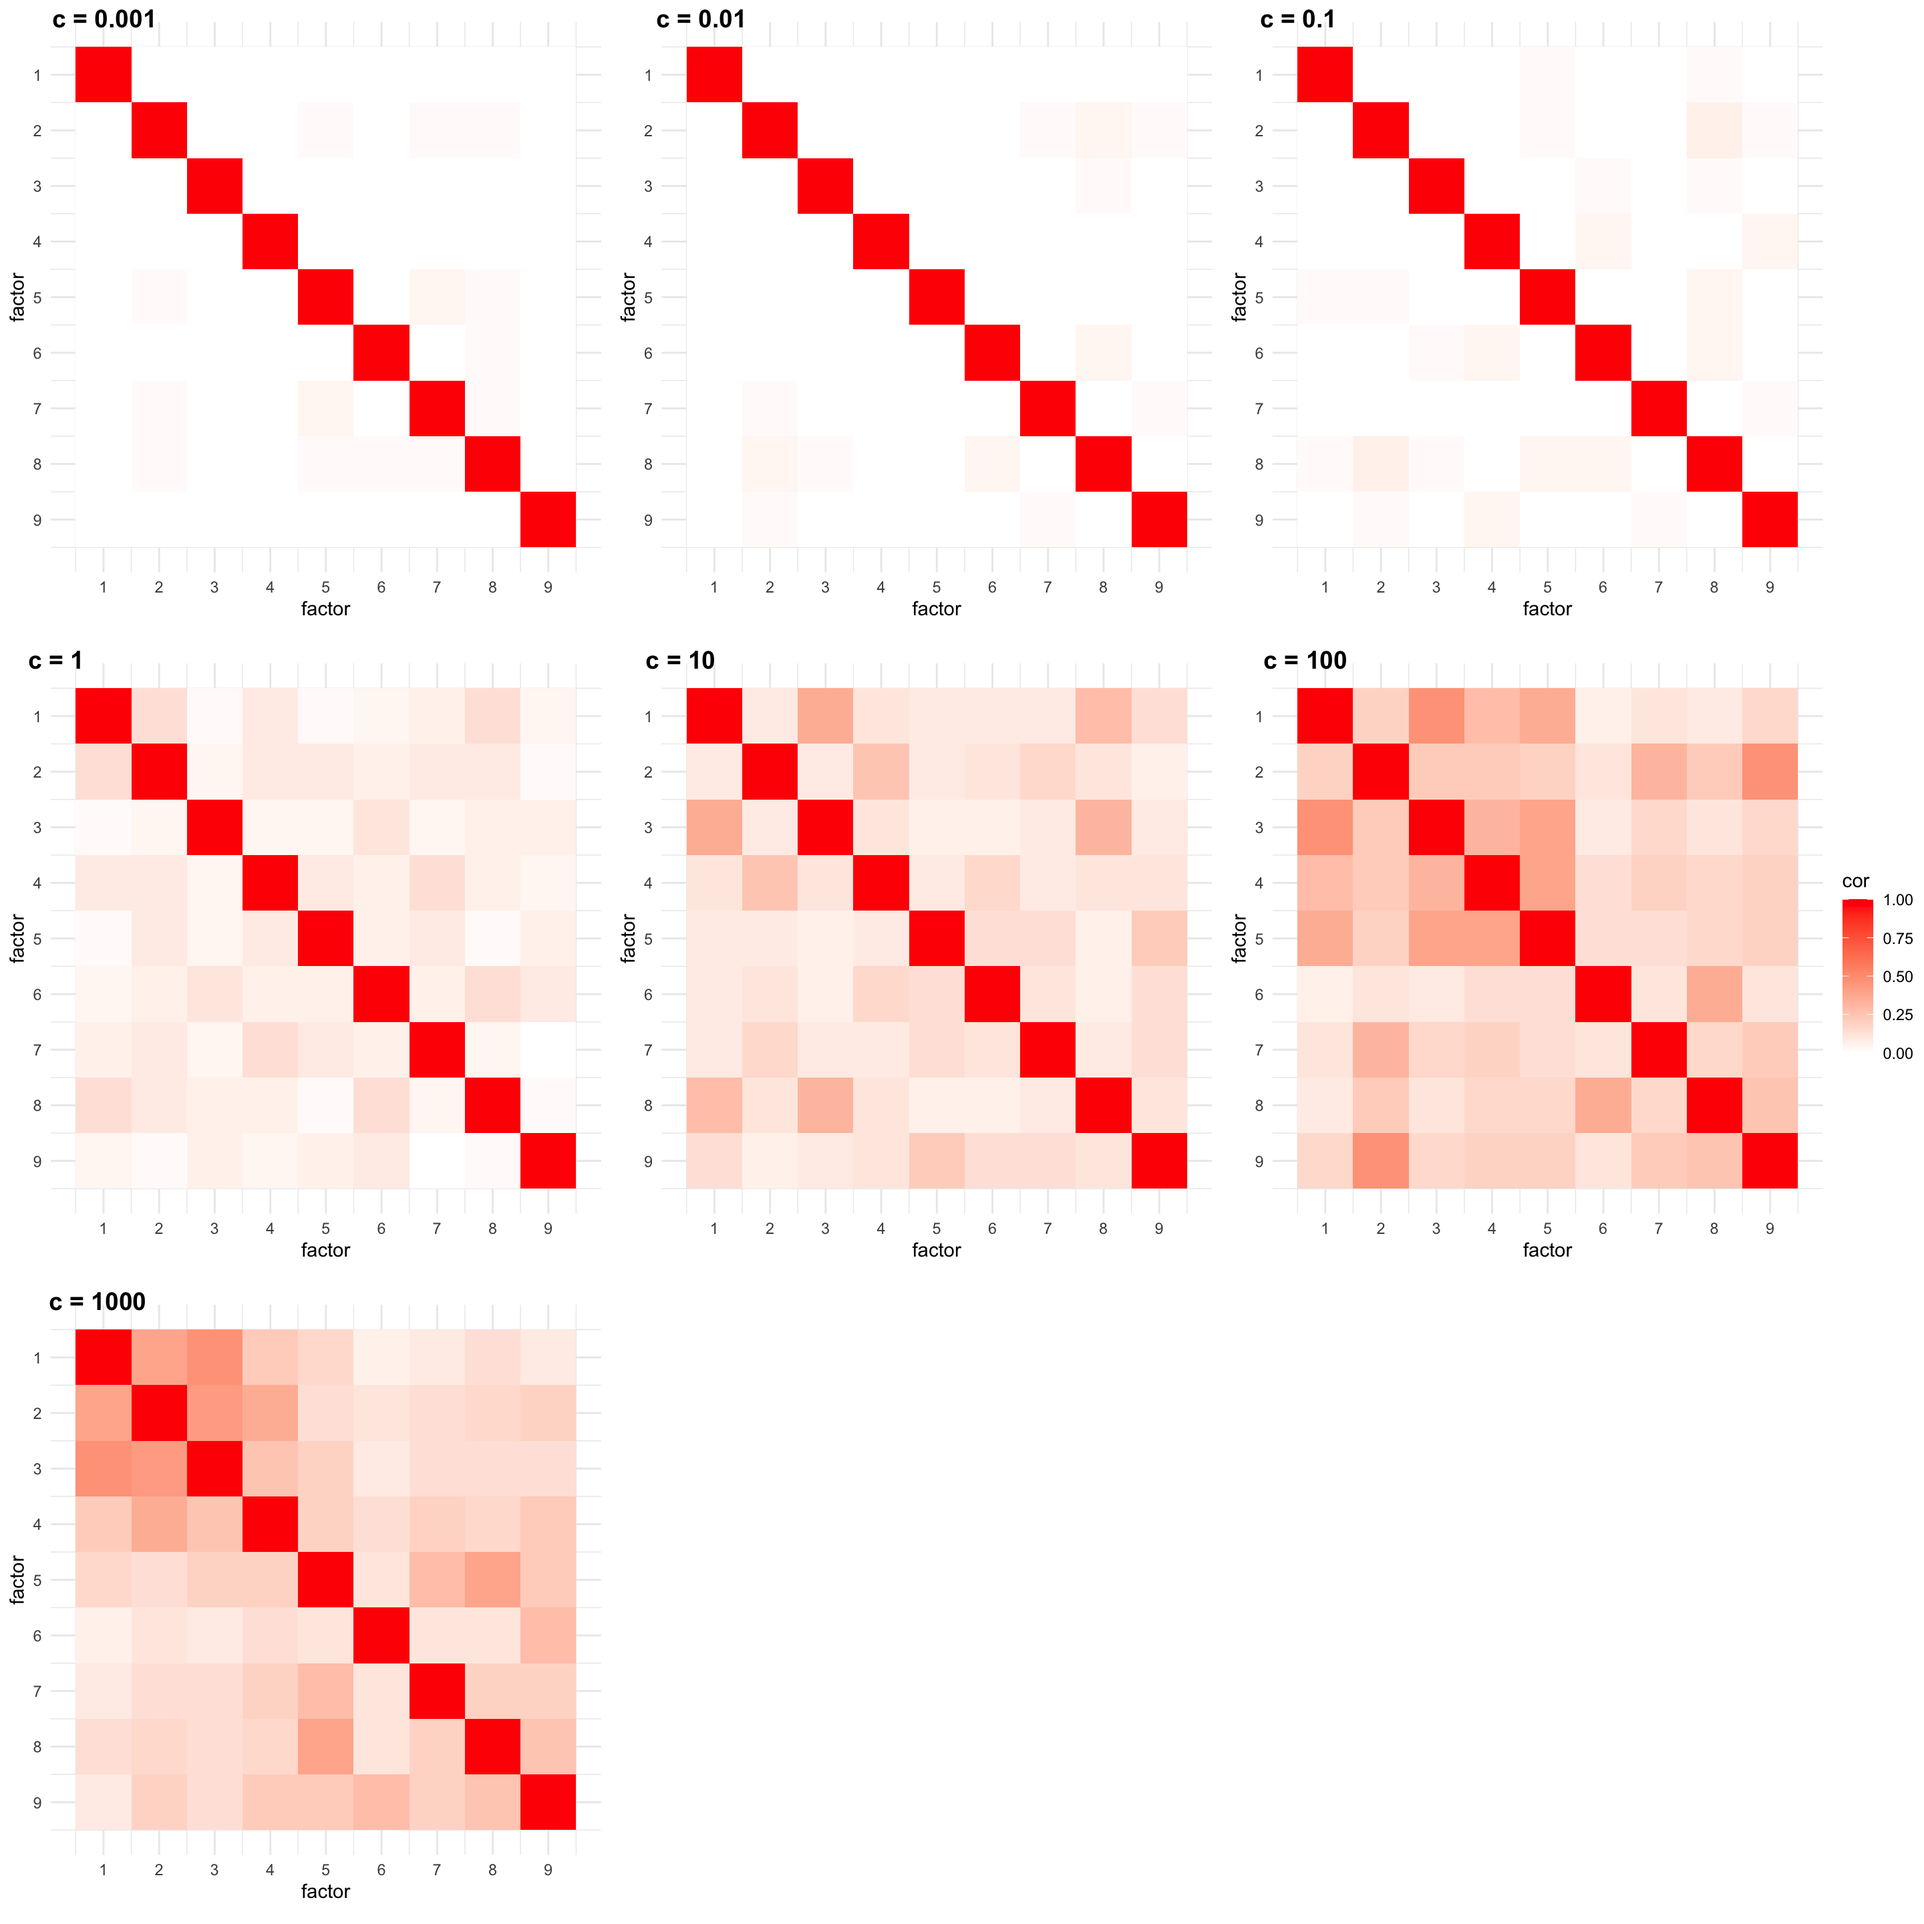
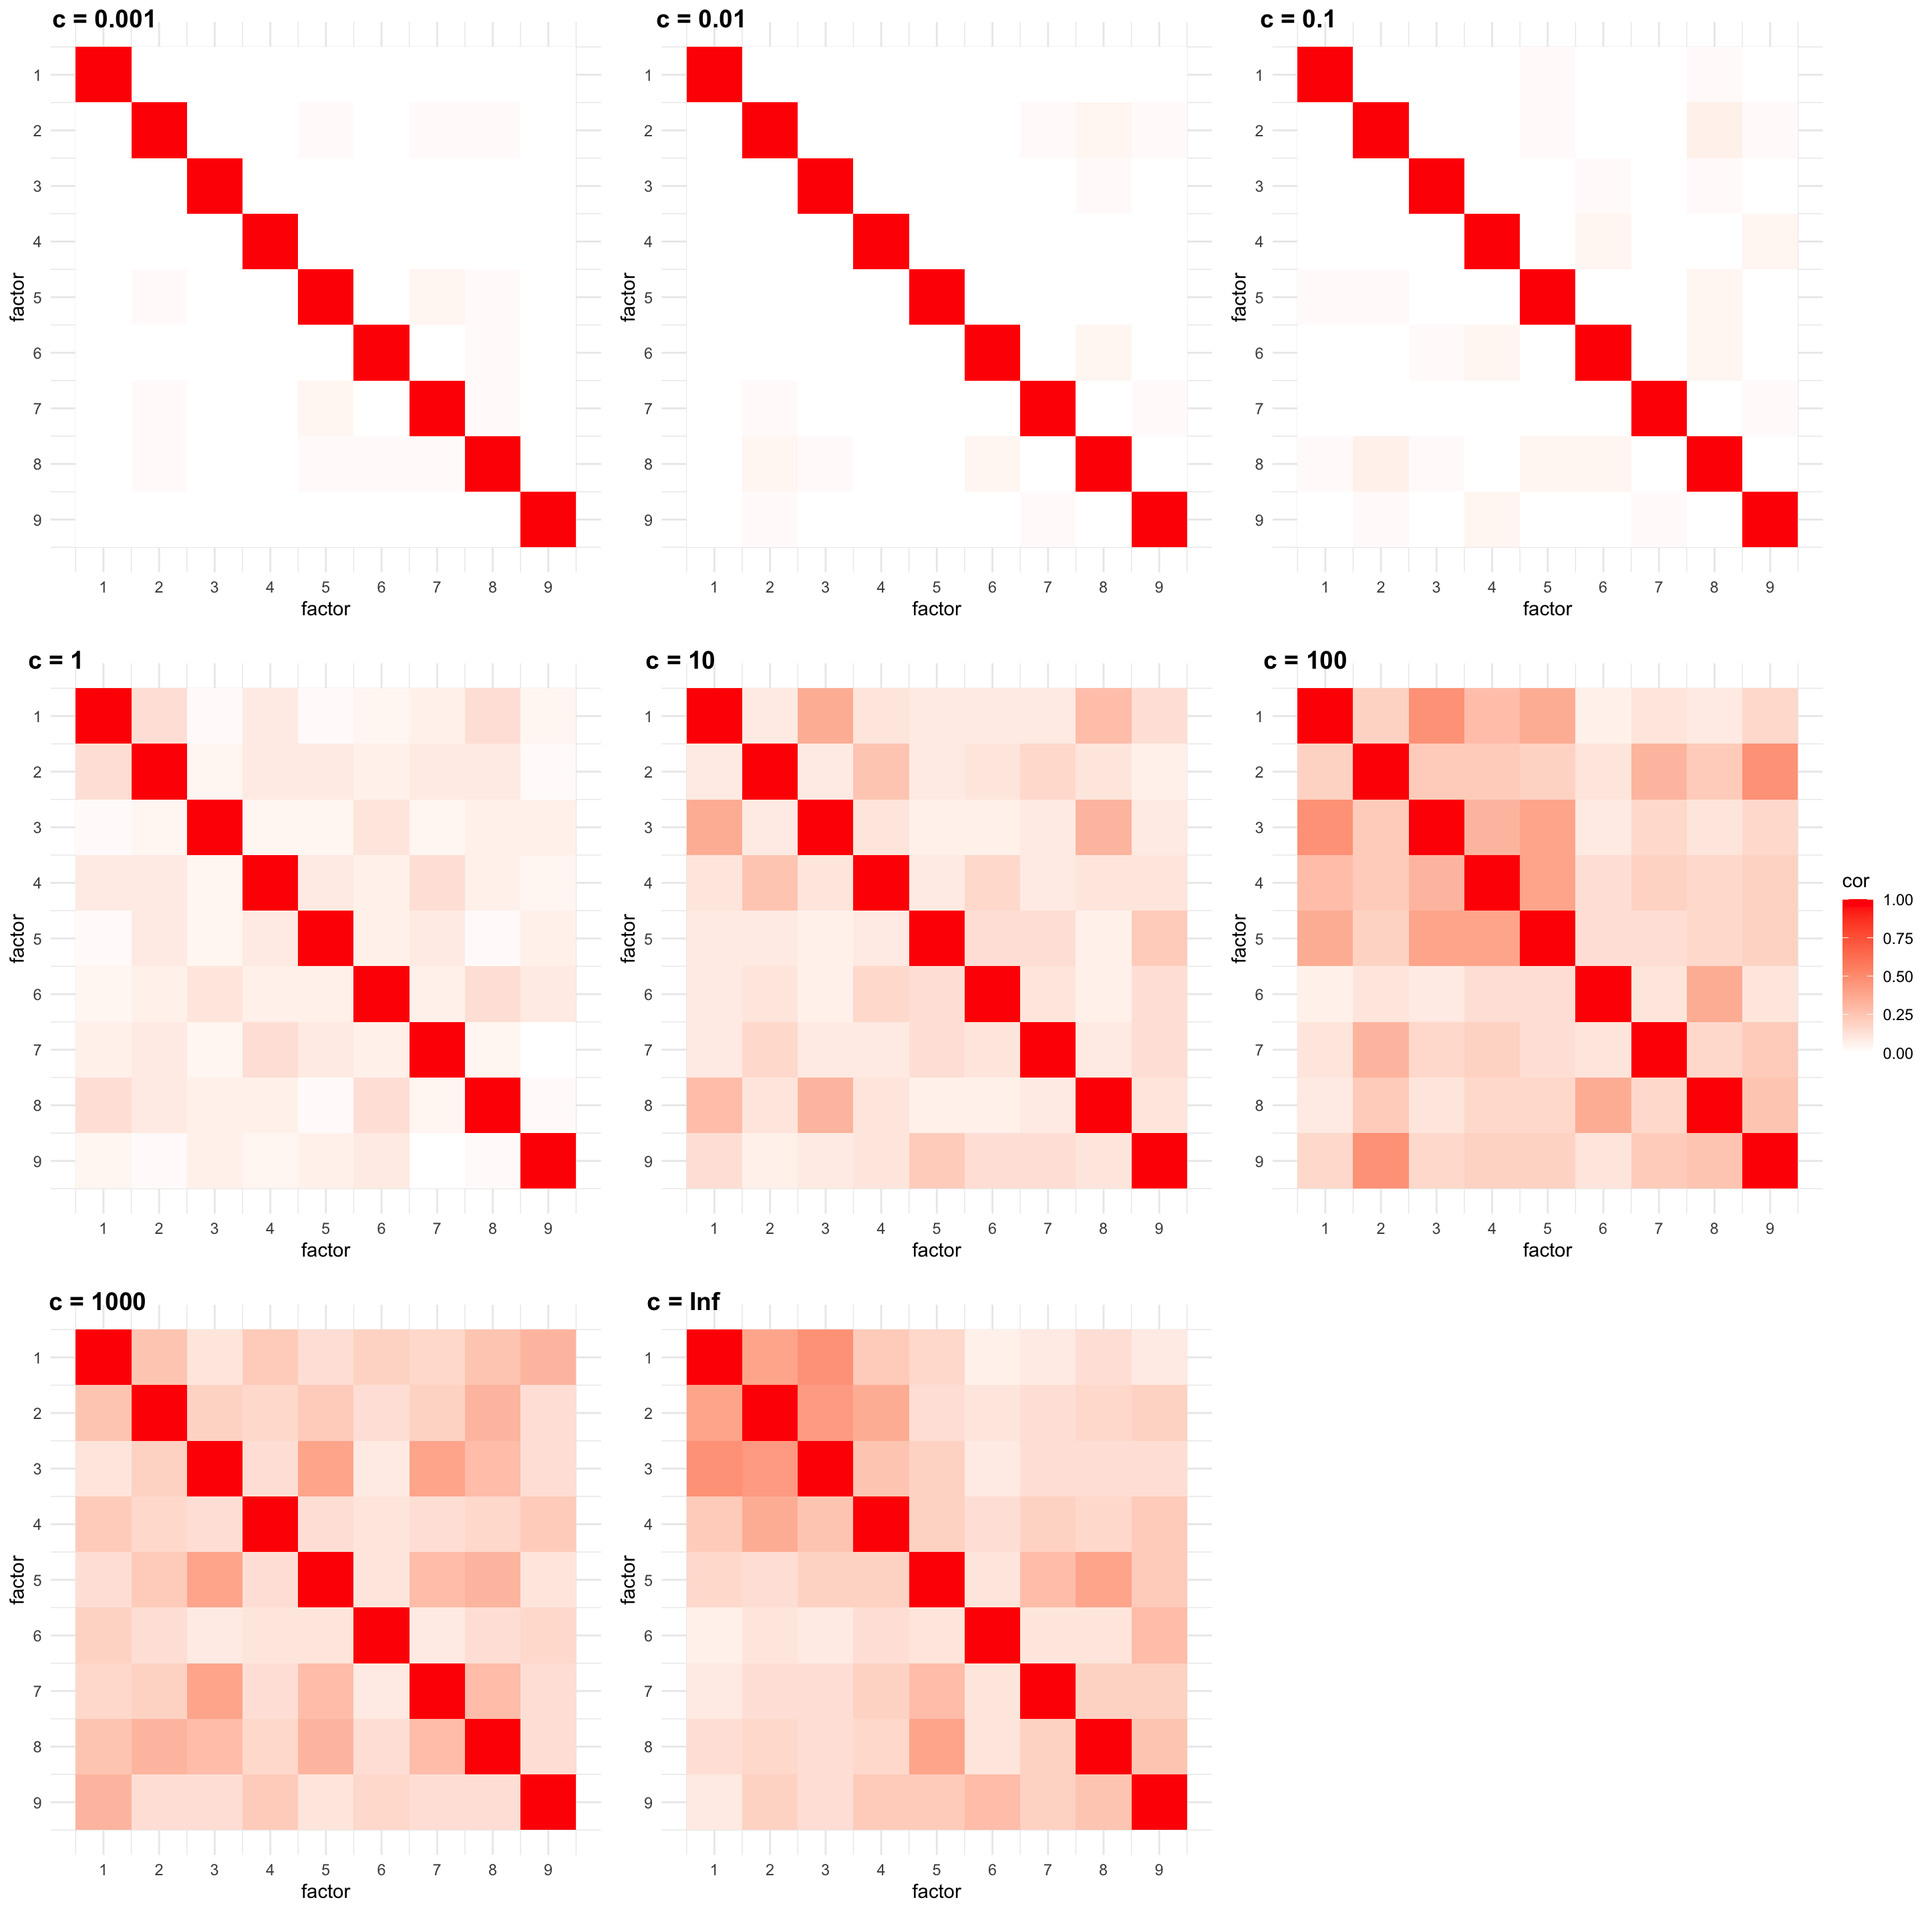
added nmf fit

Changed region(s): [[0.3438, 0.6562, 0.625, 0.9688], [0.0312, 0.6875, 0.3125, 0.9688], [0.1562, 0.7812, 0.3125, 0.9688]]

diff --git a/docs/pancreas.html b/docs/pancreas.html
@@ -534,15 +534,15 @@ project makes it easier to run your code on other machines.</p>
 <div class="panel panel-default">
 <div class="panel-heading">
 <p class="panel-title">
-<a data-toggle="collapse" data-parent="#workflowr-checks" href="#strongRepositoryversionstrongahrefhttpsgithubcomeweinelog1pexperimentstree0c710e573a7e67e0cda1eebfc8199051a067f91atargetblank0c710e5a">
+<a data-toggle="collapse" data-parent="#workflowr-checks" href="#strongRepositoryversionstrongahrefhttpsgithubcomeweinelog1pexperimentstreed4f9ec8fdc6c311fd3e9d47ffac8f8e358847095targetblankd4f9ec8a">
 <span class="glyphicon glyphicon-ok text-success"
 aria-hidden="true"></span> <strong>Repository version:</strong>
-<a href="https://github.com/eweine/log1p_experiments/tree/0c710e573a7e67e0cda1eebfc8199051a067f91a" target="_blank">0c710e5</a>
+<a href="https://github.com/eweine/log1p_experiments/tree/d4f9ec8fdc6c311fd3e9d47ffac8f8e358847095" target="_blank">d4f9ec8</a>
 </a>
 </p>
 </div>
 <div
[2 lines of base64/hex data omitted]
 class="panel-collapse collapse">
 <div class="panel-body">
 <p>
@@ -552,7 +552,7 @@ reproducibility.
 </p>
 <p>
 The results in this page were generated with repository version
-<a href="https://github.com/eweine/log1p_experiments/tree/0c710e573a7e67e0cda1eebfc8199051a067f91a" target="_blank">0c710e5</a>.
+<a href="https://github.com/eweine/log1p_experiments/tree/d4f9ec8fdc6c311fd3e9d47ffac8f8e358847095" target="_blank">d4f9ec8</a>.
 See the <em>Past versions</em> tab to see a history of the changes made
 to the R Markdown and HTML files.
 </p>
@@ -618,6 +618,40 @@ Message
 </tr>
 </thead>
 <tbody>
+<tr>
+<td>
+Rmd
+</td>
+<td>
+<a href="https://github.com/eweine/log1p_experiments/blob/d4f9ec8fdc6c311fd3e9d47ffac8f8e358847095/analysis/pancreas.Rmd" target="_blank">d4f9ec8</a>
+</td>
+<td>
+Eric Weine
+</td>
+<td>
+2025-02-13
+</td>
+<td>
+added additional pancreas analysis
+</td>
+</tr>
+<tr>
+<td>
+html
+</td>
+<td>
+<a href="https://rawcdn.githack.com/eweine/log1p_experiments/d4f9ec8fdc6c311fd3e9d47ffac8f8e358847095/docs/pancreas.html" target="_blank">d4f9ec8</a>
+</td>
+<td>
+Eric Weine
+</td>
+<td>
+2025-02-13
+</td>
+<td>
+added additional pancreas analysis
+</td>
+</tr>
 <tr>
 <td>
 Rmd
@@ -1089,6 +1123,17 @@ Date
 <tbody>
 <tr>
 <td>
+<a href="https://github.com/eweine/log1p_experiments/blob/d4f9ec8fdc6c311fd3e9d47ffac8f8e358847095/docs/figure/pancreas.Rmd/unnamed-chunk-7-1.png" target="_blank">d4f9ec8</a>
+</td>
+<td>
+Eric Weine
+</td>
+<td>
+2025-02-13
+</td>
+</tr>
+<tr>
+<td>
 <a href="https://github.com/eweine/log1p_experiments/blob/ca596b7b7292f2ac94c2f00ee218d9105c9aefa1/docs/figure/pancreas.Rmd/unnamed-chunk-7-1.png" target="_blank">ca596b7</a>
 </td>
 <td>
@@ -1140,7 +1185,7 @@ for (cc in cc_vec) {
 
 cor_df$cor &lt;- as.vector(cor(fit_list$`Inf`$F))
 
-cor_plot_list[[glue::glue(&quot;c = {cc}&quot;)]] &lt;- ggplot(
+cor_plot_list[[&quot;c = Inf&quot;]] &lt;- ggplot(
       cor_df, 
       aes(x = col, y = row, fill = cor)
     ) +
@@ -1168,6 +1213,43 @@ cor_plot_list[[glue::glue(&quot;c = {cc}&quot;)]] &lt;- ggplot(
   legend = &quot;right&quot;
 )</code></pre>
 <p><img src="figure/pancreas.Rmd/unnamed-chunk-9-1.png" width="1440" style="display: block; margin: auto;" /></p>
+<p>
+<button type="button" class="btn btn-default btn-xs btn-workflowr btn-workflowr-fig" data-toggle="collapse" data-target="#fig-unnamed-chunk-9-1">
+Past versions of unnamed-chunk-9-1.png
+</button>
+</p>
+<div id="fig-unnamed-chunk-9-1" class="collapse">
+<div class="table-responsive">
+<table class="table table-condensed table-hover">
+<thead>
+<tr>
+<th>
+Version
+</th>
+<th>
+Author
+</th>
+<th>
+Date
+</th>
+</tr>
+</thead>
+<tbody>
+<tr>
+<td>
+<a href="https://github.com/eweine/log1p_experiments/blob/d4f9ec8fdc6c311fd3e9d47ffac8f8e358847095/docs/figure/pancreas.Rmd/unnamed-chunk-9-1.png" target="_blank">d4f9ec8</a>
+</td>
+<td>
+Eric Weine
+</td>
+<td>
+2025-02-13
+</td>
+</tr>
+</tbody>
+</table>
+</div>
+</div>
 <p>There is a noticable increase in correlation as <span
 class="math inline">\(c\)</span> gets larger.</p>
 <p>I also looked at the overlap in the “driving genes.” To do this, I
@@ -1248,7 +1330,7 @@ for (cc in cc_vec) {
     method = &quot;jaccard&quot;
     ))
 
-cor_plot_list[[glue::glue(&quot;c = {cc}&quot;)]] &lt;- ggplot(
+cor_plot_list[[&quot;c = Inf&quot;]] &lt;- ggplot(
       cor_df, 
       aes(x = col, y = row, fill = cor)
     ) +
@@ -1275,6 +1357,43 @@ cor_plot_list[[glue::glue(&quot;c = {cc}&quot;)]] &lt;- ggplot(
   legend = &quot;right&quot;
 )</code></pre>
 <p><img src="figure/pancreas.Rmd/unnamed-chunk-12-1.png" width="1440" style="display: block; margin: auto;" /></p>
+<p>
+<button type="button" class="btn btn-default btn-xs btn-workflowr btn-workflowr-fig" data-toggle="collapse" data-target="#fig-unnamed-chunk-12-1">
+Past versions of unnamed-chunk-12-1.png
+</button>
+</p>
+<div id="fig-unnamed-chunk-12-1" class="collapse">
+<div class="table-responsive">
+<table class="table table-condensed table-hover">
+<thead>
+<tr>
+<th>
+Version
+</th>
+<th>
+Author
+</th>
+<th>
+Date
+</th>
+</tr>
+</thead>
+<tbody>
+<tr>
+<td>
+<a href="https://github.com/eweine/log1p_experiments/blob/d4f9ec8fdc6c311fd3e9d47ffac8f8e358847095/docs/figure/pancreas.Rmd/unnamed-chunk-12-1.png" target="_blank">d4f9ec8</a>
+</td>
+<td>
+Eric Weine
+</td>
+<td>
+2025-02-13
+</td>
+</tr>
+</tbody>
+</table>
+</div>
+</div>
 <p>Again, for the models with larger <span
 class="math inline">\(c\)</span>, the overlap in the driving genes
 between factors is much greater.</p>
@@ -1331,6 +1450,43 @@ l_df &lt;- data.frame(
        y = &quot;Count&quot;) +
   theme_minimal()</code></pre>
 <p><img src="figure/pancreas.Rmd/unnamed-chunk-14-1.png" width="672" style="display: block; margin: auto;" /></p>
+<p>
+<button type="button" class="btn btn-default btn-xs btn-workflowr btn-workflowr-fig" data-toggle="collapse" data-target="#fig-unnamed-chunk-14-1">
+Past versions of unnamed-chunk-14-1.png
+</button>
+</p>
+<div id="fig-unnamed-chunk-14-1" class="collapse">
+<div class="table-responsive">
+<table class="table table-condensed table-hover">
+<thead>
+<tr>
+<th>
+Version
+</th>
+<th>
+Author
+</th>
+<th>
+Date
+</th>
+</tr>
+</thead>
+<tbody>
+<tr>
+<td>
+<a href="https://github.com/eweine/log1p_experiments/blob/d4f9ec8fdc6c311fd3e9d47ffac8f8e358847095/docs/figure/pancreas.Rmd/unnamed-chunk-14-1.png" target="_blank">d4f9ec8</a>
+</td>
+<td>
+Eric Weine
+</td>
+<td>
+2025-02-13
+</td>
+</tr>
+</tbody>
+</table>
+</div>
+</div>
 <p>And here are the factors:</p>
 <pre class="r"><code>LL_c001 &lt;- normalize_bars(fit_list$`0.001`$V)
 LL_c01 &lt;- normalize_bars(fit_list$`0.01`$V)
@@ -1377,8 +1533,45 @@ l_df &lt;- data.frame(
        x = &quot;l&quot;,
        y = &quot;Count&quot;) +
   theme_minimal()</code></pre>
-<p><img src="figure/pancreas.Rmd/unnamed-chunk-16-1.png" width="672" style="display: block; margin: auto;" />
-Interestingly, both the loadings and the factors appear to get more
+<p><img src="figure/pancreas.Rmd/unnamed-chunk-16-1.png" width="672" style="display: block; margin: auto;" /></p>
+<p>
+<button type="button" class="btn btn-default btn-xs btn-workflowr btn-workflowr-fig" data-toggle="collapse" data-target="#fig-unnamed-chunk-16-1">
+Past versions of unnamed-chunk-16-1.png
+</button>
+</p>
+<div id="fig-unnamed-chunk-16-1" class="collapse">
+<div class="table-responsive">
+<table class="table table-condensed table-hover">
+<thead>
+<tr>
+<th>
+Version
+</th>
+<th>
+Author
+</th>
+<th>
+Date
+</th>
+</tr>
+</thead>
+<tbody>
+<tr>
+<td>
+<a href="https://github.com/eweine/log1p_experiments/blob/d4f9ec8fdc6c311fd3e9d47ffac8f8e358847095/docs/figure/pancreas.Rmd/unnamed-chunk-16-1.png" target="_blank">d4f9ec8</a>
+</td>
+<td>
+Eric Weine
+</td>
+<td>
+2025-02-13
+</td>
+</tr>
+</tbody>
+</table>
+</div>
+</div>
+<p>Interestingly, both the loadings and the factors appear to get more
 sparse as <span class="math inline">\(c\)</span> increases.</p>
 <br>
 <p>
